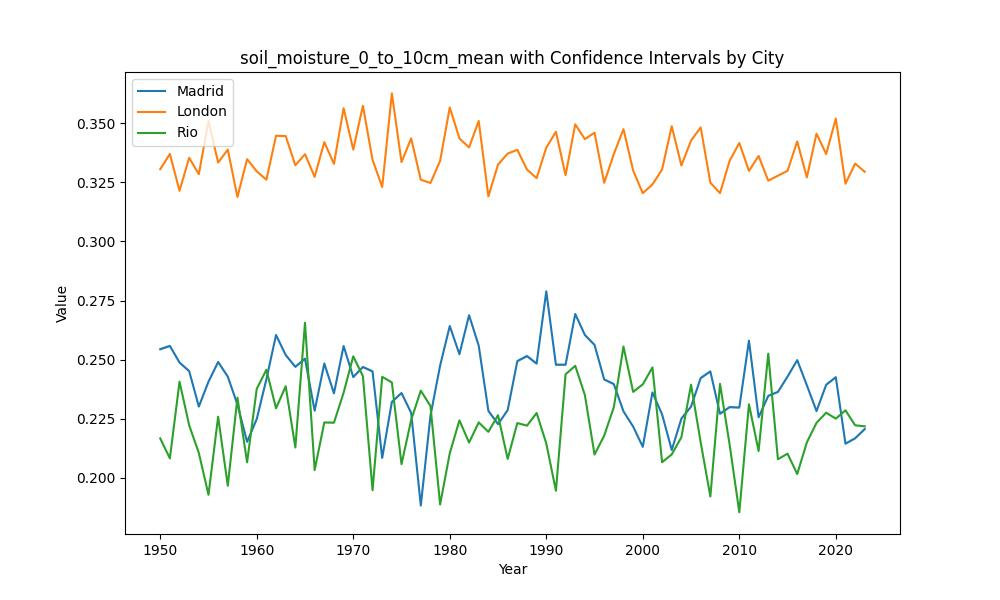
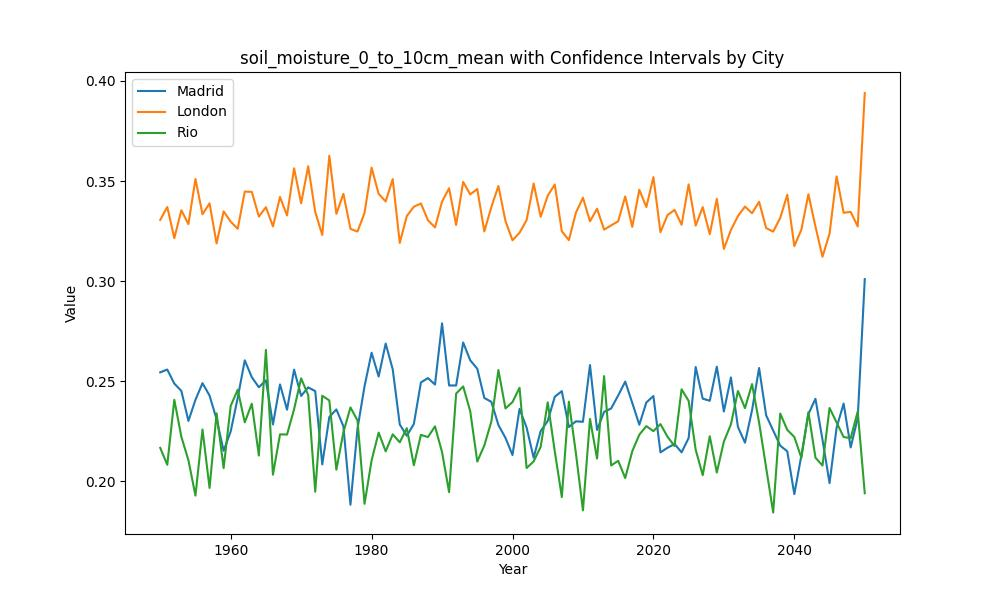
Entrega final

diff --git a/src/module_1/module_1_meteo_api.py b/src/module_1/module_1_meteo_api.py
@@ -1,7 +1,6 @@
 ################################################
 ### Semana 1: Recoger datos API Meteorologia ###
 ################################################
-import numpy as np
 import requests
 import pandas as pd
 import matplotlib.pyplot as plt
@@ -9,25 +8,26 @@ import backoff
 import time
 import json
 import scipy.stats as stats
-import altair as alt
 from jsonschema import validate, SchemaError
 
 
 # Carga el archivo JSON en la variable schema_validation
-with open("/home/ramon/Zrive/zrive-ds/src/module_1/schema.json", 'r') as file:
+with open("/home/ramon/Zrive/zrive-ds/src/module_1/schema.json", "r") as file:
     schema_to_validate = json.load(file)
+
 
 @backoff.on_exception(backoff.expo, requests.exceptions.Timeout)
 def call_api(url, params=None):
     try:
         response = requests.get(url, params=params)
-        response.raise_for_status() 
+        response.raise_for_status()
         return response.json()
     except requests.exceptions.RequestException as e:
-        print(f'Error al hacer la solicitud a la API: {e}')
+        print(f"Error al hacer la solicitud a la API: {e}")
         return None
 
-def get_data_meteo_api(city, coordinates, start_date, end_date, vars):
+
+def get_data_meteo_api(coordinates, start_date, end_date, vars):
     URL = f"https://climate-api.open-meteo.com/v1/climate?latitude={coordinates['latitude']}&longitude={coordinates['longitude']}&start_date={start_date}&end_date={end_date}&models=CMCC_CM2_VHR4,FGOALS_f3_H,HiRAM_SIT_HR,MRI_AGCM3_2_S,EC_Earth3P_HR,MPI_ESM1_2_XR,NICAM16_8S&daily={vars}"
     data = call_api(URL)
     try:
@@ -35,72 +35,93 @@ def get_data_meteo_api(city, coordinates, start_date, end_date, vars):
     except SchemaError as e:
         print(f"Error en el API_JSON schema{e}")
     finally:
-        df=pd.DataFrame(data=data['daily'])
-        time.sleep(10)
+        df = pd.DataFrame(data=data["daily"])
     return df
 
+
 def data_parse(df, variables):
-    vars = [x.strip() for x in variables.split(',')]
-    resumen_df = df[['time']].copy()
+    vars = [x.strip() for x in variables.split(",")]
+    resumen_df = df[["time"]].copy()
     for variable in vars:
         modelos = [col for col in df.columns if variable in col]
         promedio_por_dia = df[modelos].mean(axis=1)
         resumen_df[variable] = promedio_por_dia
     return resumen_df
 
+
 def conf_interval(df):
-    df['time'] = pd.to_datetime(df['time'])
-    df = df.melt(id_vars = ['time'], var_name = 'Indicadores', value_name = 'Value')
-    df['Year'] = df['time'].dt.year
-    result = df.groupby(['Year', 'Indicadores'])['Value'].agg(['mean', 'std']).reset_index()
-    result['Lower_CI'] = result.apply(lambda row: row['mean'] - stats.t.ppf(1 - 0.05/ 2, df=len(df) - 1) * row['std'] / (len(df) ** 0.5), axis=1)
-    result['Upper_CI'] = result.apply(lambda row: row['mean'] + stats.t.ppf(1 - 0.05/ 2, df=len(df) - 1) * row['std'] / (len(df) ** 0.5), axis=1) 
+    df["time"] = pd.to_datetime(df["time"])
+    df = df.melt(id_vars=["time"], var_name="Indicadores", value_name="Value")
+    df["Year"] = df["time"].dt.year
+    result = (
+        df.groupby(["Year", "Indicadores"])["Value"].agg(["mean", "std"]).reset_index()
+    )
+    result["Lower_CI"] = result.apply(
+        lambda row: row["mean"]
+        - stats.t.ppf(1 - 0.05 / 2, df=len(df) - 1) * row["std"] / (len(df) ** 0.5),
+        axis=1,
+    )
+    result["Upper_CI"] = result.apply(
+        lambda row: row["mean"]
+        + stats.t.ppf(1 - 0.05 / 2, df=len(df) - 1) * row["std"] / (len(df) ** 0.5),
+        axis=1,
+    )
     return result
 
+
 def graficar(df, variables):
-    vars = [x.strip() for x in variables.split(',')]
+    vars = [x.strip() for x in variables.split(",")]
     for variable in vars:
         df_filtered = df[df["Indicadores"] == variable]
-        cities = df_filtered['city'].unique()
+        cities = df_filtered["city"].unique()
         fig, ax = plt.subplots(figsize=(10, 6))
         for city in cities:
-            city_data = df_filtered[df_filtered['city'] == city]
-            ax.plot(city_data['Year'], city_data['mean'], label=city)
-            ax.fill_between(city_data['Year'], city_data['Lower_CI'], city_data['Upper_CI'], alpha=0.3)
-        
-        ax.set_xlabel('Year')
-        ax.set_ylabel('Value')
-        ax.set_title(f'{variable} with Confidence Intervals by City')
-        ax.legend(loc='upper left')
+            city_data = df_filtered[df_filtered["city"] == city]
+            ax.plot(city_data["Year"], city_data["mean"], label=city)
+            ax.fill_between(
+                city_data["Year"],
+                city_data["Lower_CI"],
+                city_data["Upper_CI"],
+                alpha=0.3,
+            )
 
-        fig.savefig(f'{variable}_meteo.jpg', format='jpg')
+        ax.set_xlabel("Year")
+        ax.set_ylabel("Value")
+        ax.set_title(f"{variable} with Confidence Intervals by City")
+        ax.legend(loc="upper left")
+
+        fig.savefig(f"{variable}_meteo.jpg", format="jpg")
+
 
 def main():
-        # Variables iniciales
+    # Variables iniciales
     COORDINATES = {
-    "Madrid": {"latitude": 40.416775, "longitude": -3.703790},
-    "London": {"latitude": 51.507351, "longitude": -0.127758},
-    "Rio": {"latitude": -22.906847, "longitude": -43.172896},
+        "Madrid": {"latitude": 40.416775, "longitude": -3.703790},
+        "London": {"latitude": 51.507351, "longitude": -0.127758},
+        "Rio": {"latitude": -22.906847, "longitude": -43.172896},
     }
-    start_date='1950-01-01'
-    end_date='2023-08-30'
+    start_date = "1950-01-01"
+    end_date = "2050-01-01"
     VARIABLES = "temperature_2m_mean,precipitation_sum,soil_moisture_0_to_10cm_mean"
-        ###########################
-            ##################
-        ###########################
     data_cities = []
     for i in COORDINATES.keys():
-        city_data = get_data_meteo_api(city = i, coordinates = COORDINATES[i], start_date = start_date,
-                                              end_date = end_date, vars = VARIABLES)
-        viariable_data = data_parse(df = city_data, variables = VARIABLES)
-        variable_intervals = conf_interval(df = viariable_data)
-        variable_intervals['city'] = i
+        city_data = get_data_meteo_api(
+            coordinates=COORDINATES[i],
+            start_date=start_date,
+            end_date=end_date,
+            vars=VARIABLES,
+        )
+        viariable_data = data_parse(df=city_data, variables=VARIABLES)
+        variable_intervals = conf_interval(df=viariable_data)
+        variable_intervals["city"] = i
         data_cities.append(variable_intervals)
-    meteo_data = pd.concat(data_cities, axis = 0)
-    graficar(df = meteo_data, variables = VARIABLES)
+        time.sleep(10)
+    meteo_data = pd.concat(data_cities, axis=0)
+    graficar(df=meteo_data, variables=VARIABLES)
+
 
 if __name__ == "__main__":
     start_time = time.time()
     main()
     end_time = time.time()
-    print (f'Timepo de ejecutción: {end_time-start_time}s')
+    print(f"Timepo de ejecutción: {end_time-start_time}s")

diff --git a/tests/module_1/test_meteo_api.py b/tests/module_1/test_meteo_api.py
@@ -1,23 +1,41 @@
 """ This is a dummy example to show how to import code from src/ for testing"""
-import requests
 import os
 import sys
-sys.path.append(os.path.join(os.path.dirname(__file__),'../../'))
+import time
+
+sys.path.append(os.path.join(os.path.dirname(__file__), "../../"))
 from src.module_1.module_1_meteo_api import call_api
 from src.module_1.module_1_meteo_api import get_data_meteo_api
+from src.module_1.module_1_meteo_api import data_parse
+from src.module_1.module_1_meteo_api import conf_interval
 
-#Variables 
-COORDINATES = {
-"Madrid": {"latitude": 40.416775, "longitude": -3.703790},
-"London": {"latitude": 51.507351, "longitude": -0.127758},
-"Rio": {"latitude": -22.906847, "longitude": -43.172896},
-}
-start_date='1950-01-01'
-end_date='2023-08-30'
-VARIABLES = "temperature_2m_mean,precipitation_sum,soil_moisture_0_to_10cm_mean"
 
-api_result = call_api(url= f"https://climate-api.open-meteo.com/v1/climate?latitude={COORDINATES['Madrid']['latitude']}&longitude={COORDINATES['Madrid']['longitude']}&start_date={start_date}&end_date={end_date}&models=CMCC_CM2_VHR4,FGOALS_f3_H,HiRAM_SIT_HR,MRI_AGCM3_2_S,EC_Earth3P_HR,MPI_ESM1_2_XR,NICAM16_8S&daily={VARIABLES}")
-print(api_result)
+def mean_test(df):
+    df2 = df.copy()
+    df2["Avg"] = df2.mean(numeric_only=True, axis=1)
+    return df2["Avg"].mean(), df2["Avg"].std()
 
-### def test_main():
-#     raise NotImplementedError
+
+def test_main():
+    COORDINATES = {"Madrid": {"latitude": 40.416775, "longitude": -3.703790}}
+    start_date = "2022-01-01"
+    end_date = "2022-12-31"
+    VARIABLES = "temperature_2m_mean"
+    city_data = get_data_meteo_api(
+        coordinates=COORDINATES["Madrid"],
+        start_date=start_date,
+        end_date=end_date,
+        vars=VARIABLES,
+    )
+    viariable_data = data_parse(df=city_data, variables=VARIABLES)
+    test_mean = mean_test(city_data)
+    variable_intervals = conf_interval(df=viariable_data)
+    print(variable_intervals.head())
+    print(test_mean)
+
+
+if __name__ == "__main__":
+    start_time = time.time()
+    test_main()
+    end_time = time.time()
+    print(f"Timepo de ejecutción: {end_time-start_time}s")
